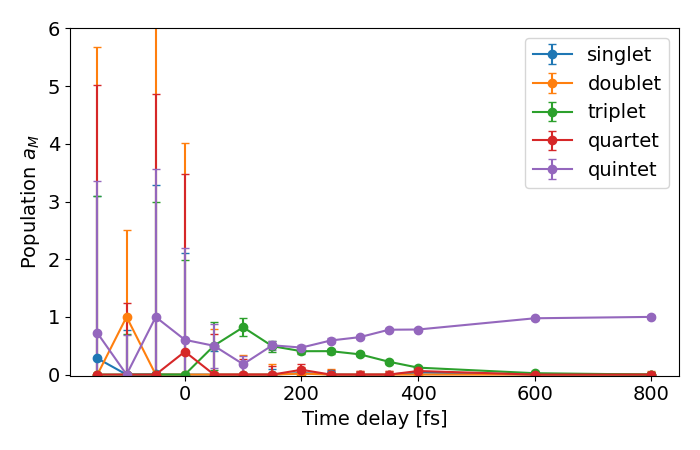
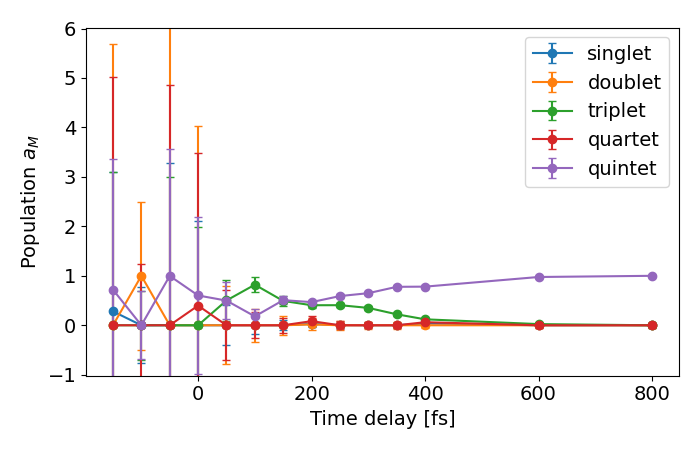
population finished basically, but i'm still fooling around lol

diff --git a/P6/Auswertung EXP21/fit/v6.py b/P6/Auswertung EXP21/fit/v6.py
@@ -131,6 +131,70 @@ def fit_difference_spectrum(energy, difference, sigma, reference_spectra):
     fitted, populations = model(result.x)
     return amplitude, populations, fitted, result
 
+def fit_negative_delays_joint(differences, sigmas, reference_spectra):
+    """Fit t <= 0 with one population and one amplitude per delay."""
+    ground_state = reference_spectra[:, 0]
+    number_of_delays = differences.shape[0]
+
+    def model(parameters):
+        excited_populations = parameters[:4]
+        amplitudes = parameters[4:]
+        singlet_population = 1.0 - np.sum(excited_populations)
+        populations = np.concatenate(([singlet_population], excited_populations))
+        spectral_shape = reference_spectra @ populations - ground_state
+        fitted = amplitudes[:, None] * spectral_shape[None, :]
+        return fitted, populations
+
+    def objective(parameters):
+        fitted, _ = model(parameters)
+        return np.sum(((differences - fitted) / sigmas) ** 2)
+
+    initial_amplitudes = np.maximum(np.max(np.abs(differences), axis=1), 1.0)
+    x0 = np.concatenate((np.zeros(4), initial_amplitudes))
+    result = minimize(
+        objective,
+        x0,
+        method="SLSQP",
+        bounds=[(0.0, 1.0)] * 4 + [(0.0, None)] * number_of_delays,
+        constraints={"type": "ineq", "fun": lambda parameters: 1.0 - np.sum(parameters[:4])},
+        options={"ftol": 1e-12, "maxiter": 2000},
+    )
+
+    fitted, populations = model(result.x)
+    return result.x[4:], populations, fitted, result
+
+def estimate_joint_population_uncertainties(result, differences, sigmas, reference_spectra):
+    """Estimate population uncertainties for the joint negative-delay fit."""
+    parameters = result.x
+    ground_state = reference_spectra[:, 0]
+
+    def weighted_residuals(parameters):
+        excited_populations = parameters[:4]
+        amplitudes = parameters[4:]
+        singlet_population = 1.0 - np.sum(excited_populations)
+        populations = np.concatenate(([singlet_population], excited_populations))
+        spectral_shape = reference_spectra @ populations - ground_state
+        fitted = amplitudes[:, None] * spectral_shape[None, :]
+        return ((differences - fitted) / sigmas).ravel()
+
+    jacobian = np.empty((differences.size, parameters.size))
+    for parameter_index, parameter in enumerate(parameters):
+        step = np.sqrt(np.finfo(float).eps) * max(1.0, abs(parameter))
+        shifted_plus = parameters.copy()
+        shifted_minus = parameters.copy()
+        shifted_plus[parameter_index] += step
+        shifted_minus[parameter_index] -= step
+        jacobian[:, parameter_index] = (
+            weighted_residuals(shifted_plus) - weighted_residuals(shifted_minus)
+        ) / (2 * step)
+
+    covariance = np.linalg.pinv(jacobian.T @ jacobian)
+    population_transform = np.zeros((5, 4))
+    population_transform[0, :] = -1.0
+    population_transform[1:, :] = np.eye(4)
+    population_covariance = population_transform @ covariance[:4, :4] @ population_transform.T
+    return np.sqrt(np.maximum(np.diag(population_covariance), 0.0))
+
 def estimate_population_uncertainties(result, difference, sigma, reference_spectra):
     parameters = result.x
     ground_state = reference_spectra[:, 0]
@@ -207,11 +271,36 @@ amplitudes = []
 populations = []
 population_uncertainties = []
 fitted_spectra = []
+nonpositive = t_fs <= 0
+negative_amplitudes, negative_population, negative_fitted_spectra, negative_result = fit_negative_delays_joint(
+    dI_fit[nonpositive],
+    sigma_fit[nonpositive],
+    reference_fit,
+)
+negative_uncertainties = estimate_joint_population_uncertainties(
+    negative_result,
+    dI_fit[nonpositive],
+    sigma_fit[nonpositive],
+    reference_fit,
+)
+negative_index = 0
 for delay, difference, uncertainty in zip(t_fs, dI_fit, sigma_fit):
-    amplitude, population, fitted, result = fit_difference_spectrum(energy_fit, difference, uncertainty, reference_fit)
+    if delay <= 0:
+        amplitude = negative_amplitudes[negative_index]
+        population = negative_population
+        fitted = negative_fitted_spectra[negative_index]
+        population_uncertainty = negative_uncertainties
+        negative_index += 1
+    else:
+        amplitude, population, fitted, result = fit_difference_spectrum(
+            energy_fit, difference, uncertainty, reference_fit
+        )
+        population_uncertainty = estimate_population_uncertainties(
+            result, difference, uncertainty, reference_fit
+        )
     amplitudes.append(amplitude)
     populations.append(population)
-    population_uncertainties.append(estimate_population_uncertainties(result, difference, uncertainty, reference_fit))
+    population_uncertainties.append(population_uncertainty)
     fitted_spectra.append(fitted)
     print(f"{delay:>5.0f} fs: A = {amplitude:.5g}, populations = {population}")
 
@@ -238,7 +327,7 @@ plt.ylabel("Population $a_M$")
 plt.ylim(-0.02, 1.02)
 plt.legend()
 plt.tight_layout()
-plt.savefig("Auswertung EXP21/fit/fit_all.png")
+plt.savefig("Auswertung EXP21/fit/fit_try_to_fix_lol.png")
 plt.show()
 
 plt.figure(figsize=(7, 4.5))
@@ -253,7 +342,7 @@ plt.xlabel("Time delay [fs]")
 plt.ylabel(r"Measured intensity $N = (\Delta N)^2$")
 plt.legend()
 plt.tight_layout()
-plt.savefig("Auswertung EXP21/fit/poisson_counts_negative_delays.png")
+plt.savefig("Auswertung EXP21/fit/counts_negative_delays_try_to_fix.png")
 plt.show()
 
 
